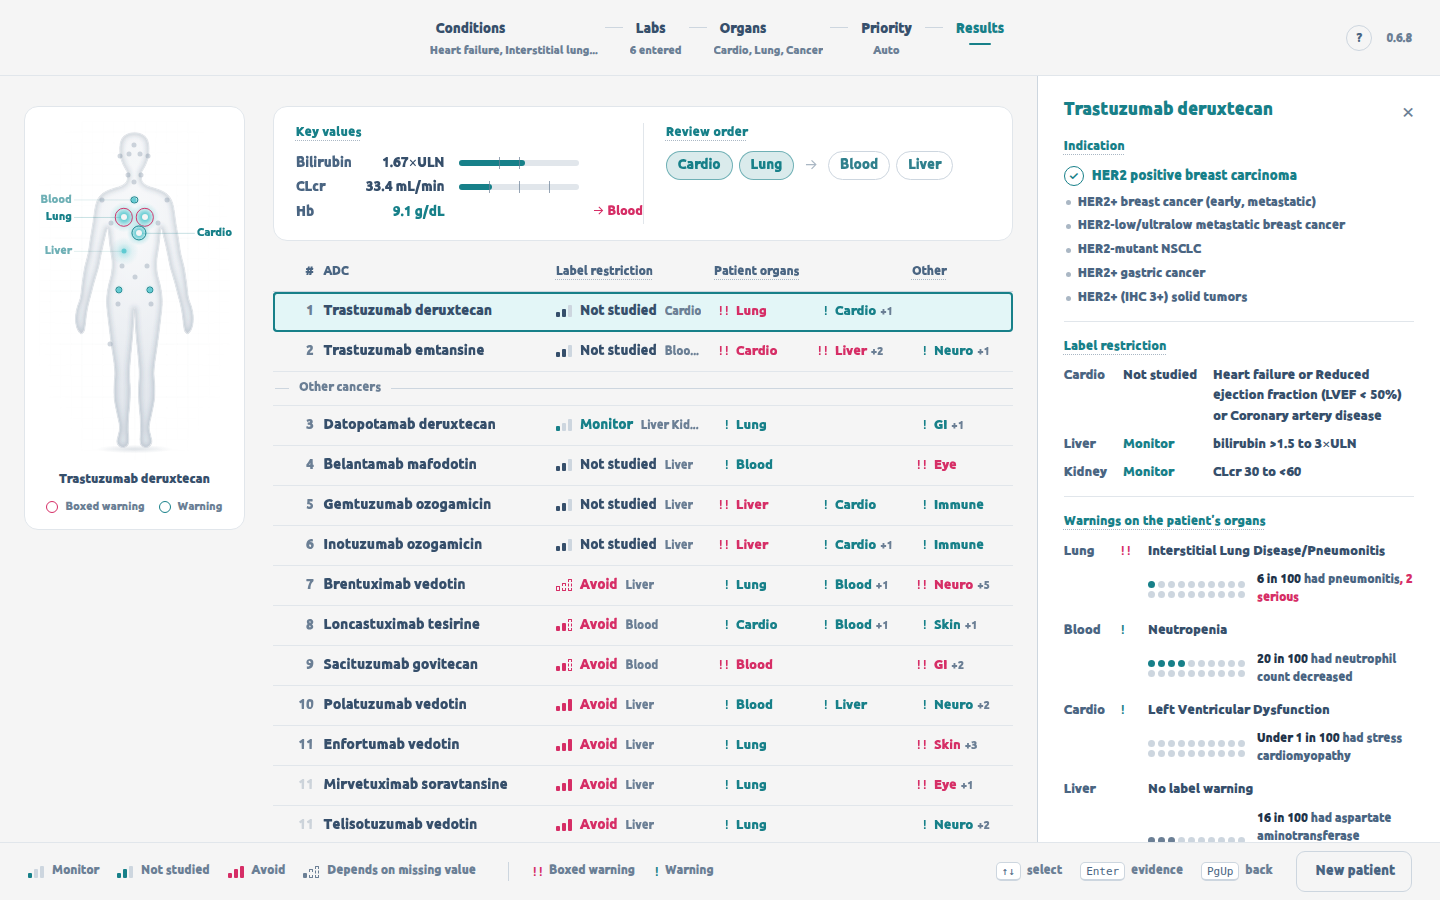
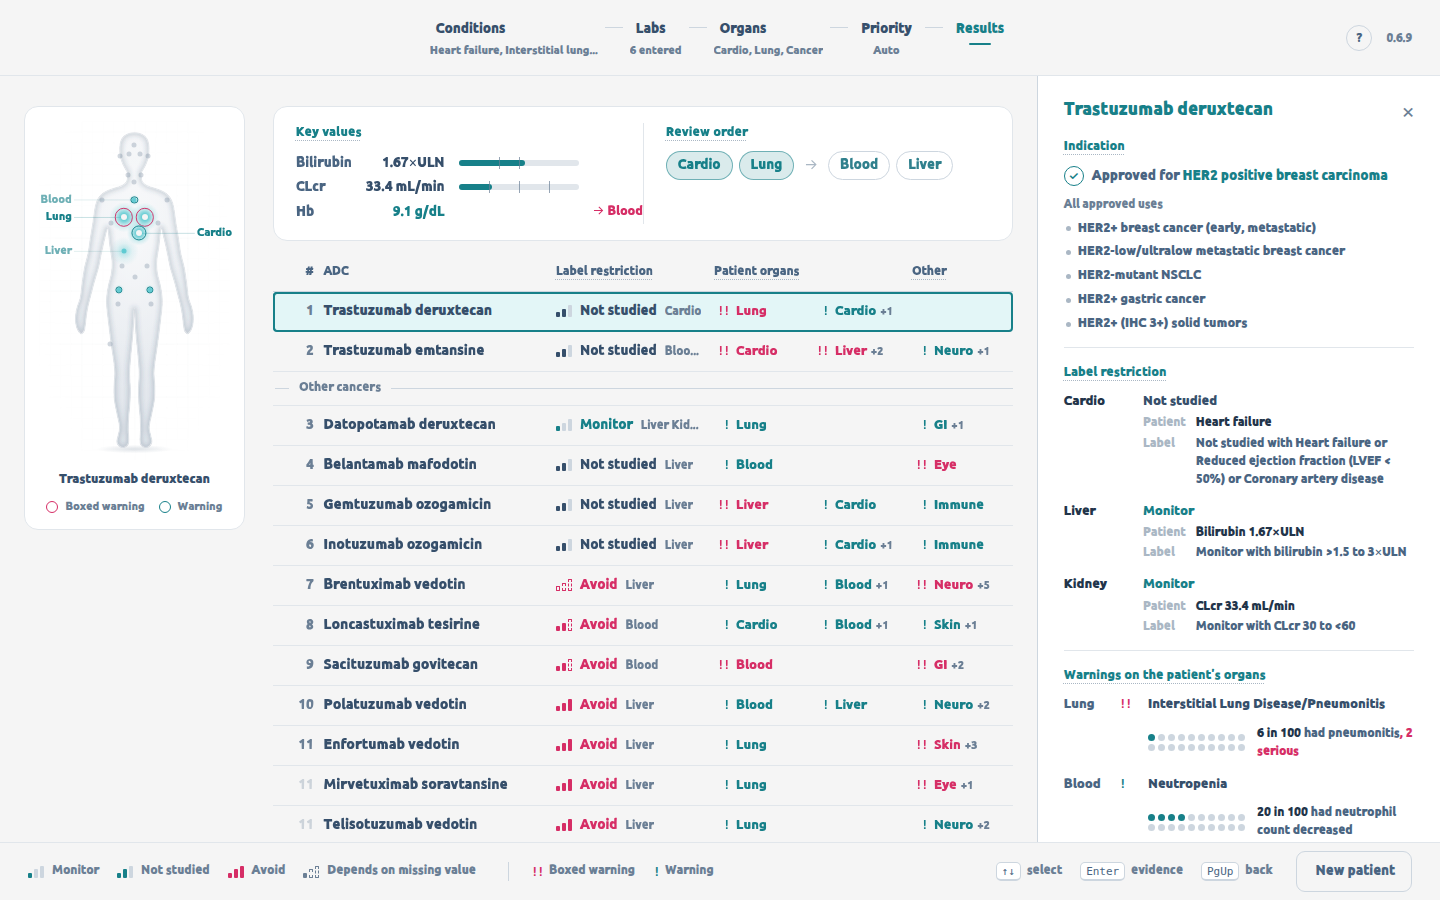
App 0.6.9: Label restriction as what the patient has and the rule it meets

Changed region(s): [[0.7188, 0.1867, 1.0, 0.9333]]

diff --git a/ml/adc_version.py b/ml/adc_version.py
@@ -1,5 +1,5 @@
 """Application and model-runtime compatibility versions (Ubuntu and Windows share them)."""
-APP_VERSION = "0.6.8"
+APP_VERSION = "0.6.9"
 RUNTIME_API = 1
 REPOSITORY = "ahnhc/ADCToX"
 # stable3.json: model bundles with the from-scratch organ judge (model 0.7+, ScratchJudge/), read by app 0.5+.

diff --git a/releases/app/NOTES.md b/releases/app/NOTES.md
@@ -1,9 +1,9 @@
-ADCTOX 0.6.8: 임상시험 결과를 경고 아래 점으로 보이고, SSH 터널로도 브라우저 화면이 열린다. Ubuntu, macOS, Windows 모두 0.6.8이다.
+ADCTOX 0.6.9: Label restriction이 환자의 무엇이 라벨의 어떤 규칙에 걸렸는지 보인다. Ubuntu, macOS, Windows 모두 0.6.9다.
 
-- **임상시험 결과는 해당 경고 바로 아래에 점 20개로 보인다.** 점 하나가 100명 중 5명이고, 분홍 점은 serious다. 옆에 "6 in 100 had pneumonitis, 2 serious"처럼 쓴다. 다른 치료에서도 비슷하게 생긴 사건은 회색이고 "as on other treatment"가 붙는다. 시험 이름과 두 군의 비율은 마우스를 올리면 보인다. 따로 있던 Trial results 칸과 막대는 없앴다.
-- **SSH 터널로도 열린다** (`ssh -L 8080:127.0.0.1:<포트>`). 127.0.0.1, localhost, [::1]이면 포트와 상관없이 응답하고, 다른 주소 이름은 그대로 막는다.
-- **ADC 상세를 목록으로 정리했다.** 승인 용도는 한 줄에 하나, Payload and linker는 Payload, Action, Linker, Bystander effect, Target 줄로 나눴다.
-- **팁과 설명은 한 줄에 한 문장이다.** 세미콜론을 없앴고, 설명이 없던 제목 네 개에 설명을 붙였다.
+- **Label restriction은 두 줄이다.** `Patient`는 걸린 환자 쪽(Heart failure, Bilirubin 1.67×ULN, 또는 LVEF not entered)이고, `Label`은 라벨의 규칙("Monitor with bilirubin >1.5 to 3×ULN", "Not studied if LVEF < 50%")이다.
+- **Indication은 문장으로 보인다.** "Approved for" 또는 "Not approved for" 입력한 암, 그 아래에 All approved uses 목록이다.
+- **마우스를 올리면 뜨는 설명은 요약 한 줄과 항목 줄이다.**
+- Windows 설치 확인에서 브라우저 화면까지 열어 본다.
 
 모델은 그대로 0.7이다.
 

diff --git a/CHANGELOG.md b/CHANGELOG.md
@@ -1,5 +1,12 @@
 # Changelog
 
+## 0.6.9: Label restriction as what the patient has and the rule it meets (Ubuntu, macOS and Windows)
+
+- **Label restriction in the ADC detail shows both sides**: under each organ and status, `Patient` (the entered condition or value that meets the rule, such as Heart failure or Bilirubin 1.67×ULN, or "LVEF not entered") and `Label` (the rule, as "Monitor with bilirubin >1.5 to 3×ULN" or "Not studied if LVEF < 50%"). The server sends the patient side with each row.
+- **Indication says it in words**: "Approved for" or "Not approved for" the entered cancer, then "All approved uses" as a list.
+- **Hover notes are a summary line and rows** (mark, meaning) instead of running text, for every dotted title.
+- **The Windows install check opens the browser page**: the page, both fonts and a search, then Edge draws it and keeps a screenshot.
+
 ## 0.6.8: Trial rates as dots under each warning, and the page behind an SSH tunnel (Ubuntu, macOS and Windows)
 
 - **Trial results sit under the label warning they measure**: 20 dots, one per 5 patients in 100, pink for the serious ones, and a line such as "6 in 100 had pneumonitis, 2 serious". An event about as common on the other treatment is grey and says "as on other treatment". The trial, both arms and their rates are on hover. The separate Trial results section, its bars and its scale are gone.
